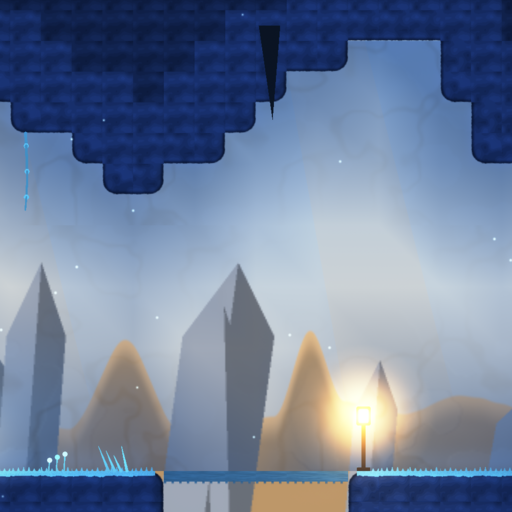
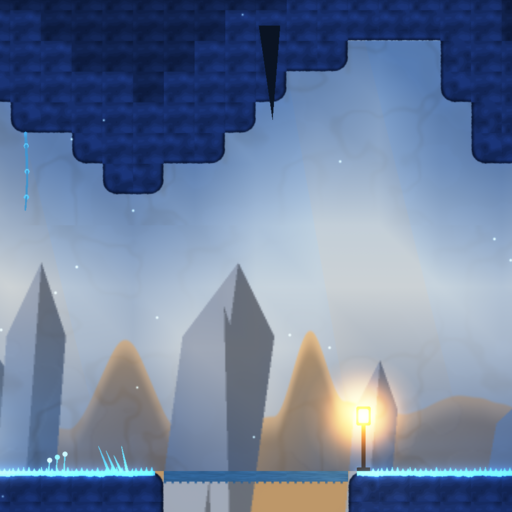
explorer: WebGPU runs again (the first frame's canvas is 0 x 0 before any pass: the view was NaN and every entity in the world went into one frame's stream, which Dawn aborted on; the window size stands in, nothing is drawn while it is 0), the GI field at a quarter of the canvas (finer, and on v0.37

Changed region(s): [[0.5938, 0.7188, 1.0, 0.9375], [0.0, 0.9062, 0.3125, 0.9375]]

diff --git a/games/explorer/src/view.c b/games/explorer/src/view.c
@@ -78,14 +78,26 @@ void view_init(void) {
   np = 0;
 }
 
+/* the canvas a window pass draws on: cw_r2d_canvas_size answers for the current or last pass, so before the first one
+ * (the first frame) it is 0 x 0; the window's logical size is the same thing then. 0 x 0 still: nothing is drawn (a
+ * zero zoom made the view NaN, every culling test false, and the first frame drew every entity in the world). */
+cw_vec2 view_canvas(void) {
+  cw_vec2 cs = cw_r2d_canvas_size();
+  if (cs.x >= 1 && cs.y >= 1) return cs;
+  int w = 0, h = 0;
+  cw_window_size(&w, &h);
+  return (cw_vec2){ (float)w, (float)h };
+}
+
 float view_px_per_tile(void) { return zoom; }
 cw_vec2 view_world_to_screen(cw_vec2 w) {
-  cw_vec2 cs = cw_r2d_canvas_size();
+  cw_vec2 cs = view_canvas();
   return (cw_vec2){ (w.x - g_cam.position.x) * zoom + cs.x * 0.5f, (w.y - g_cam.position.y) * zoom + cs.y * 0.5f };
 }
 
 void view_camera(const sim *s, float dt, bool snap) {
-  cw_vec2 cs = cw_r2d_canvas_size();
+  cw_vec2 cs = view_canvas();
+  if (cs.y < 1) return;
   zoom = cs.y / (float)CELL_H;
   float vw = cs.x / zoom, vh = cs.y / zoom;
   /* the players' middle, a little ahead of where player 1 runs */
@@ -169,7 +181,7 @@ static void draw_sky(const sim *s, float t, int region) {
   /* a little more light behind the rock-heavy halls of the Forge, a little less in the snow (luma steps) */
   static const int8_t EXPO[NREGIONS] = { [R_FORGE] = 22, [R_CLOCK] = 10, [R_ROOTWAY] = 4, [R_FROST] = -14, [R_SKY] = -8 };
   int ex = EXPO[region];
-  cw_vec2 cs = cw_r2d_canvas_size();
+  cw_vec2 cs = view_canvas();
   cw_r2d_use_layer(L_SKY);
   /* a bright hazy depth behind everything: the playfield and the rock read as darker shapes against it */
   cw_color haze = toluma(hexc(ri->sky, 1), VAL(V_HAZE + ex));
@@ -617,7 +629,7 @@ static void draw_framing(const sim *s, float t) {
   const region_info *g = &REGIONS[r->region];
   cw_color ink = mixc(scalec(hexc(g->ground, 1), 0.32f), scalec(hexc(g->sky, 1), 0.2f), 0.35f), ink2 = scalec(ink, 1.35f);
   float X0 = (float)(r->x * CELL_W), X1 = (float)((r->x + r->w) * CELL_W), Y0 = (float)(r->y * CELL_H), Y1 = (float)((r->y + r->h) * CELL_H);
-  cw_vec2 cs = cw_r2d_canvas_size();
+  cw_vec2 cs = view_canvas();
   float vw = cs.x / zoom, vh = cs.y / zoom;
   float cxL = X0 + vw * 0.5f, cxR = X1 - vw * 0.5f, cyT = Y0 + vh * 0.5f;
   if (cxR < cxL) cxL = cxR = (X0 + X1) * 0.5f;
@@ -1123,12 +1135,12 @@ void view_draw(const sim *s, float t) {
   if (!rockdist || rock_dirty) build_rockdist(s), rock_dirty = false;
   static int empty = -1; /* the perf gate's control: nothing of the world drawn */
   if (empty < 0) empty = getenv("EXPLORER_BENCH_EMPTY") != NULL;
-  if (empty) {
+  if (empty || view_canvas().y < 1) {
     cw_r2d_begin(&(cw_r2d_pass_desc){ .clear = true, .clear_color = rgba(0, 0, 0, 1) });
     cw_r2d_end();
     return;
   }
-  cw_vec2 cs = cw_r2d_canvas_size();
+  cw_vec2 cs = view_canvas();
   int region = s->room >= 0 ? s->w->rooms[s->room].region : 0;
   const region_info *g = &REGIONS[region];
   cw_color amb = mixc(hexc(g->sky, 1), rgba(1, 1, 1, 1), 0.55f);
@@ -1139,7 +1151,11 @@ void view_draw(const sim *s, float t) {
   static cw_r2d_post post;
   post = (cw_r2d_post){ .hud_layer = L_HUD, .bloom = true, .bloom_threshold = 1.0f, .bloom_intensity = 0.55f, .bloom_levels = 4, .tone_knee = 0.78f,
                         .saturation = 1.12f, .contrast = 1.06f, .gain = mixc(rgba(1, 1, 1, 1), accent, 0.06f), .vignette = 0.22f };
-  static cw_r2d_gi gi = { .intensity = 0.8f, .resolution = 0.125f }; /* (an eighth of the canvas: about half the cost, still soft) */
+  /* (a quarter of the canvas, the engine's High: on v0.37 it costs less than an eighth, whose source pass reads 16
+   * taps a texel, and the bounce is finer) */
+  static cw_r2d_gi gi = { .intensity = 0.8f, .resolution = 0.25f };
+  static int gi_env = -1; /* EXPLORER_GI_RES: another share (measuring) */
+  if (gi_env < 0) gi_env = getenv("EXPLORER_GI_RES") != NULL, gi.resolution = gi_env ? (float)atof(getenv("EXPLORER_GI_RES")) : gi.resolution;
   cw_r2d_begin(&(cw_r2d_pass_desc){ .clear = true, .clear_color = hexc(g->sky, 1), .ambient = scalec(amb, 0.92f), .time = t, .post = perf_off("post") ? NULL : &post,
                                     .gi = g_gi ? &gi : NULL });
   cw_camera2d cam = { .position = g_cam.position, .zoom = zoom };
@@ -1344,7 +1360,7 @@ void view_tick(const sim *s, float dt) {
 #endif
   /* ambient motes for the region: fireflies, embers, snow, bubbles, petals, spores */
   int region = s->room >= 0 ? s->w->rooms[s->room].region : 0;
-  cw_vec2 cs = cw_r2d_canvas_size();
+  cw_vec2 cs = view_canvas();
   float vw = cs.x / zoom, vh = cs.y / zoom;
   if (frand() < 0.5f) {
     float x = g_cam.position.x + (frand() - 0.5f) * vw, y = g_cam.position.y + (frand() - 0.5f) * vh;

diff --git a/games/explorer/src/soak.c b/games/explorer/src/soak.c
@@ -6,6 +6,7 @@
  * falls, and checks every tick: positions and health are finite, the players stay inside the world and out of
  * solid rock. Prints progress each game minute (pickups, wardens, rooms seen, deaths, the bot's recoveries, rss),
  * then "soak ok: <minutes> minutes, <pickups> pickups, <bosses> wardens, won <0|1>" or "soak FAIL: <why>" (exit 1).
+ * EXPLORER_SOAK_SEED=n plays another run (the bot starts n % 97 ticks late, its wiggles differ).
  * EXPLORER_SOAK_INJECT=1 puts a NaN into the player's speed at minute 1: the checks must catch it (the control). */
 #include <math.h>
 #include <stdio.h>
@@ -54,12 +55,17 @@ int main(int argc, char **argv) {
   sim_init(&S, &W, players);
   S.assist = getenv("EXPLORER_ASSIST") ? atoi(getenv("EXPLORER_ASSIST")) : 3;
   bool inject = getenv("EXPLORER_SOAK_INJECT") != NULL;
+  /* EXPLORER_SOAK_SEED=n: another run of the same world (the sim has no randomness of its own): the bot waits n % 97
+   * ticks before it starts, so every enemy and warden meets it at another point of its cycle, and its wiggles go
+   * another way */
+  unsigned seed = getenv("EXPLORER_SOAK_SEED") ? (unsigned)atoi(getenv("EXPLORER_SOAK_SEED")) : 0;
+  if (seed) B.seed = 99 + seed * 7919u;
   long first_rss = 0;
   int last_i = 0, flat_minutes = 0;
   for (long tick = 0; tick < (long)minutes * 3600 && !S.won; tick++) {
     pinput in[MAXP];
     memset(in, 0, sizeof in);
-    bot_input(&B, &S, 0, &in[0]);
+    if (tick >= (long)(seed % 97)) bot_input(&B, &S, 0, &in[0]);
     for (int i = 1; i < S.players; i++) bot_follow(&S, i, &in[i]);
     static int prev_i;
     int i_before = B.i;

diff --git a/games/explorer/src/view.h b/games/explorer/src/view.h
@@ -2,6 +2,7 @@
 #ifndef EXPLORER_VIEW_H
 #define EXPLORER_VIEW_H
 
+#include "cartwheel/platform.h"
 #include "cartwheel/render2d.h"
 #include "sim.h"
 
@@ -25,6 +26,7 @@ void view_events(const sim *s);           /* particles and flashes from the tick
 void view_tick(const sim *s, float dt);   /* particles move */
 view_stats view_get_stats(void);
 cw_vec2 view_world_to_screen(cw_vec2 w); /* canvas units */
+cw_vec2 view_canvas(void); /* the window pass's canvas size, valid before the first pass too */
 float view_px_per_tile(void);
 extern cw_camera2d g_cam;
 

diff --git a/games/explorer/src/hud.c b/games/explorer/src/hud.c
@@ -135,7 +135,7 @@ void hud_menu_build(const sim *s, hud_state *h) {
 }
 
 void hud_draw(const sim *s, const hud_state *h, float t) {
-  cw_vec2 cs = cw_r2d_canvas_size();
+  cw_vec2 cs = view_canvas();
   float u = cs.y / 1080.0f;
   char b[200];
   cw_r2d_begin(NULL);

diff --git a/games/explorer/HANDOFF.md b/games/explorer/HANDOFF.md
@@ -36,13 +36,25 @@
 5. Perf: parallax merged into the sky layer (four fewer layers), back wall skipped behind rock and kept to a band,
    no full-screen quads in the lit layers.
 
+## Round two finish (2026-11-07)
+- WebGPU exited on start-up: on the first frame the canvas size is 0 x 0 (no pass yet), the zoom became 0, the view
+  NaN, and every entity in the world was drawn in one frame (604,752 vertices); Dawn aborted in the index upload.
+  `view_canvas` (view.c) falls back to the window size and draws nothing while that is 0 too. Details and the Dawn
+  side: internal-cartwheel findings/explorer-2d.md.
+- GI field at a quarter of the canvas (was an eighth): finer and, on v0.37, cheaper (bench GL 4.2 -> 3.4 ms,
+  WebGPU 4.6 -> 3.8 ms). Engine v0.38.0 cuts GI to about 0.3 ms; the pin move is the coordinator's.
+- Soak: 24 runs (12 starts, one and two players) all clear; the stall at route step 3672 in room 321 (out/tr.txt
+  of the previous session) does not happen on this world and bot. The soak test runs two starts per player count.
+
 ## Debugging switches
 - Fast looks without the GPU lock: `node tests/explorer-look.mjs` (lavapipe, out/look-explorer/r<region>.png), or
   run explorer_auto on lavapipe by hand (SDL_VIDEODRIVER=offscreen, VK_ICD_FILENAMES=lvp, CW_GPU=webgpu,
   CW_SCREENSHOT, EXPLORER_IDLE=1 EXPLORER_ROOM=n EXPLORER_NO_HUD=1).
-- Perf breakdown: `EXPLORER_PERF_OFF=shadows,vol,post,water,dist,occl,lights,frame` and `EXPLORER_NO_GI=1`.
+- Perf breakdown: `EXPLORER_PERF_OFF=shadows,vol,post,water,dist,occl,lights,frame`, `EXPLORER_NO_GI=1`, and
+  `EXPLORER_GI_RES=<share>` (the GI field's share of the canvas; 0.25 ships). Numbers per part: internal-cartwheel
+  findings/explorer-2d.md, "Perf on v0.37.0".
 - Bot: `EXPLORER_SOAK_HURT=1 explorer_soak games/explorer/assets <min> 1` prints hurts, deaths, REGRESS lines;
-  `EXPLORER_SOAK_FROM=a EXPLORER_SOAK_TRACE=b` traces ticks a..b (with the warden's state when one is up). A full
+  `EXPLORER_SOAK_SEED=n` plays another run (the bot starts n % 97 ticks late); `EXPLORER_SOAK_FROM=a EXPLORER_SOAK_TRACE=b` traces ticks a..b (with the warden's state when one is up). A full
   clear takes about 140 game minutes, about 3 s of CPU.
 
 ## Open

diff --git a/games/explorer/README.md b/games/explorer/README.md
@@ -35,7 +35,7 @@ map that fills in as you go. A second player can drop in on a pad. `DESIGN.md` h
 TARGETS=native scripts/build.sh explorer_worldgen explorer_check explorer_feel explorer_soak
 node tests/explorer-world.mjs     # the world is current and proven; five broken worlds must each fail
 node tests/explorer-feel.mjs      # jump heights, coyote time, jump buffer, with controls
-node tests/explorer-soak.mjs      # the bot clears the game (every pickup, every warden), one player and two; a NaN must be caught
+node tests/explorer-soak.mjs      # the bot clears the game (every pickup, every warden), one player and two, two runs each; a NaN must be caught
 node tests/explorer-look.mjs      # frames of eight regions: value, contrast, a complementary accent; a flattened grade must fail
 node tests/gate.mjs --gates-file explorer-gates.json   # GL and WebGPU, frames and state across hosts
 node tests/explorer-perf.mjs      # 1080p High on the test GPU

diff --git a/games/explorer/DESIGN.md b/games/explorer/DESIGN.md
@@ -141,7 +141,9 @@ shrines, opens hidden and cracked floors the route drops through, and reads the 
 (charges jumped toward and over, tells as long as the warden's phase makes them, helpers struck first). A watchdog
 stops it minding enemies for a while when the route has not moved in twenty seconds. It plays with the assist
 (every third hit costs a leaf) and clears the game: `tests/explorer-soak.mjs` requires every pickup, all six
-wardens and the heart down, for one player and for two.
+wardens and the heart down, for one player and for two, each on two runs (the sim has no randomness, so the second
+run starts the bot 13 ticks late: every enemy and warden meets it at another point of its cycle). Twenty-four such runs
+(twelve starts, one and two players) all clear.
 
 ## The 2D renderer's new features (cartwheel-engine v0.37)
 
